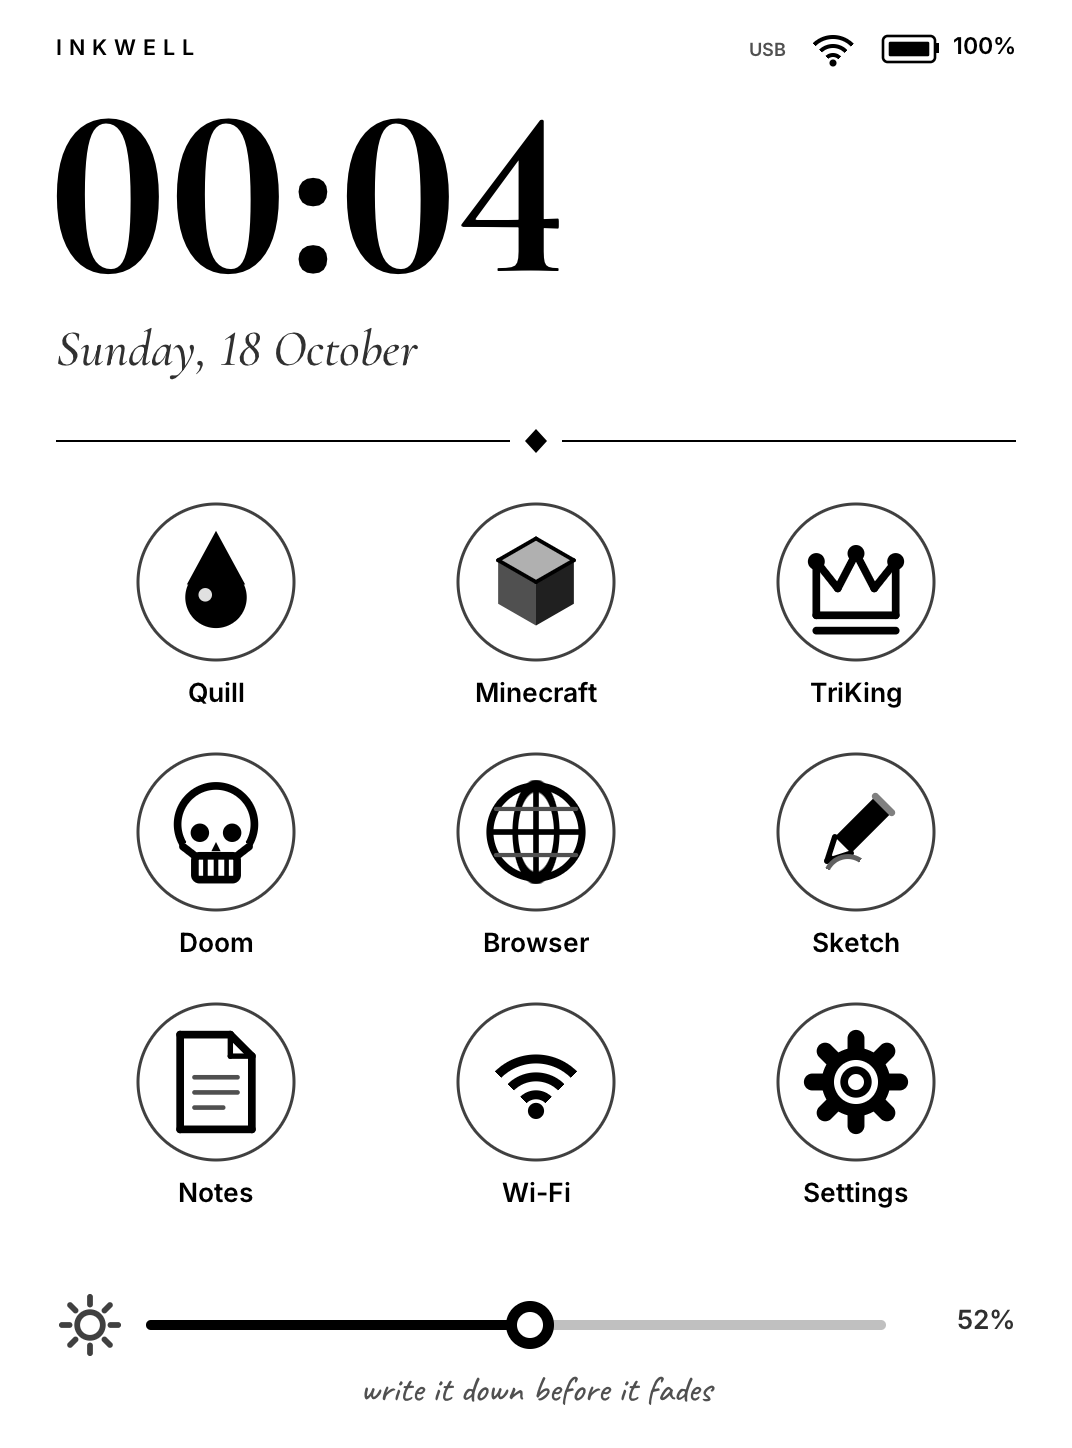
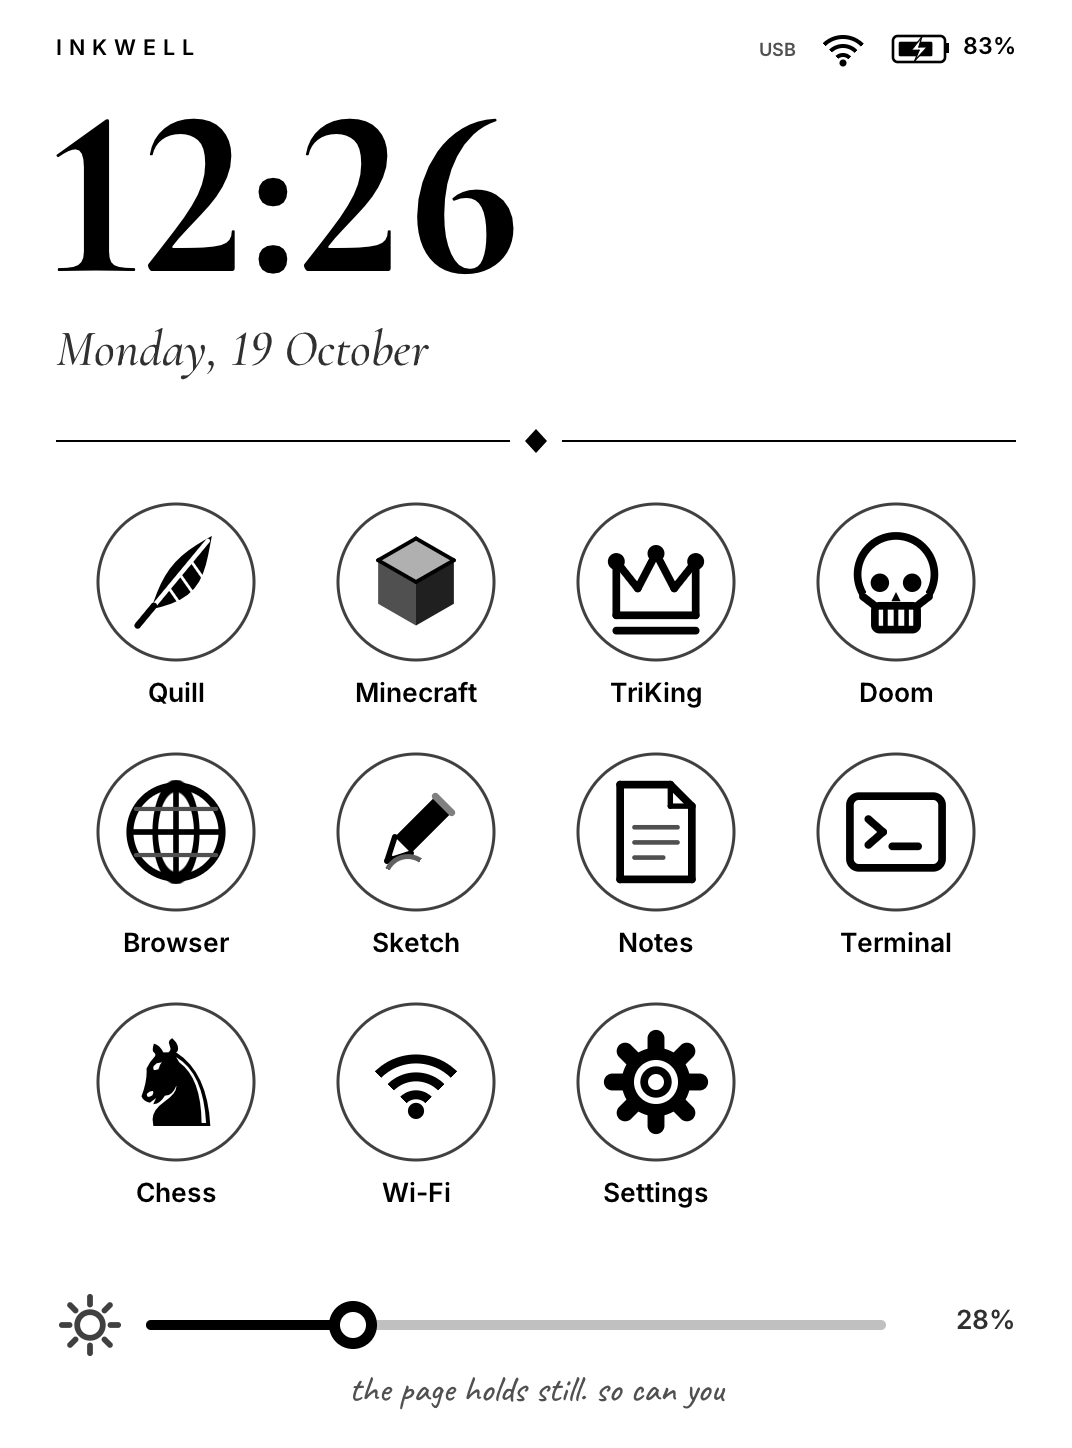
docs: describe Terminal and Chess in the README

diff --git a/README.md b/README.md
@@ -2,7 +2,7 @@
 
 Inkwell is a small Linux system of its own for the jailbroken Kindle Paperwhite 3. Amazon's bootloader and kernel still start the device, and everything after that is replaced: the home screen, the apps, Wi-Fi, USB networking and SSH all come from an Alpine Linux userspace built for the e-ink panel.
 
-It has a chatbot called Quill that runs a language model on the Kindle itself with no internet. It also plays Doom and the first version of Minecraft, and it has a reading web browser, notes, a sketchpad and a falling-block game called TriKing. You install it by copying one folder to the Kindle and tapping one item in the library, and one more tap brings the normal Kindle back.
+It has a chatbot called Quill that runs a language model on the Kindle itself with no internet. It also plays Doom, chess and the first version of Minecraft, and it has a terminal, a reading web browser, notes, a sketchpad and a falling-block game called TriKing. You install it by copying one folder to the Kindle and tapping one item in the library, and one more tap brings the normal Kindle back.
 
 <p align="center"><img src="docs/images/home.png" width="380" alt="The Inkwell home screen with a serif clock, nine app icons and a frontlight slider"></p>
 
@@ -25,12 +25,18 @@ These clips are from a real Kindle Paperwhite 3. Some are sped up, and each capt
 - **Minecraft** is rd-132211, the first version of Minecraft from 2009, through [rdgeneric](https://github.com/pragyaangaur/Can-It-Run-Minecraft). You can walk, dig and place blocks.
 - **TriKing** is a falling-block game where every piece has three cells. You tap the board to rotate, drag to move and flick down to drop.
 - **Browser** fetches a page, keeps the headings, paragraphs and links, and lays them out as pages you turn. It searches with Bing.
+- **Chess** plays against Inkwell's own engine, a small alpha-beta search written for this processor. Easy answers at once, Medium thinks for up to two seconds and Hard for up to six. You can play either colour and take moves back, and the game is saved to the `chess` folder, so you can carry on later.
+- **Terminal** runs a shell on the Kindle with an extra row of keys for Esc, Tab, Ctrl and the arrows. It handles full-screen programs such as `vi` and `top`, and `ssh` connects to the computer on the other end of the USB cable. Hiding the keyboard shows the whole screen.
 - **Notes** saves plain text files to the `notes` folder on the Kindle's drive, so you can read them on a computer.
 - **Sketch** is a drawing pad that saves pictures to the `sketches` folder.
 - **Wi-Fi** scans for networks and joins them with the on-screen keyboard.
 - **Settings** restarts or powers off the Kindle, opens the normal Kindle UI once, and shows the battery, memory and storage.
 
 The home screen also has a clock, the date, the battery and a frontlight slider. The Kindle sleeps after 15 minutes on the home screen or when you press the power button there, and it shows a night sky while it sleeps.
+
+| Chess | Terminal |
+| :---: | :---: |
+| <img src="docs/images/chess.png" width="300" alt="A chess game in the opening, with Inkwell having played Nc6"> | <img src="docs/images/terminal.png" width="300" alt="The terminal running top, with the extra keys above the keyboard"> |
 
 | Quill | TriKing | Sleep screen | Notes | Settings |
 | :---: | :---: | :---: | :---: | :---: |
@@ -46,7 +52,7 @@ You need a **Kindle Paperwhite 3** (the 7th generation, from 2015) that is alrea
 4. Eject the Kindle and unplug it.
 5. Open the Kindle's library and tap **Inkwell: install**.
 
-The Kindle reboots, shows the Inkwell splash for a moment and opens the home screen within about 20 seconds. From then on it starts Inkwell every time it boots.
+The Kindle reboots, shows the Inkwell splash for a moment and opens the home screen within about 20 seconds. Release 1.0.0 has every app above except Chess and Terminal, which are in this repository and will be in the next release. From then on it starts Inkwell every time it boots.
 
 ## Use
 
@@ -57,6 +63,8 @@ Tap an app to open it, and tap the round arrow in the top left corner to go back
 **The smart model.** Quill comes with the quick model (135 million parameters). The release also has `smollm2-360m-q4_0.gguf`, which knows more and writes about 0.7 words per second. Put that file in the `linux/models` folder on the Kindle's drive, and the **quick** button in Quill then switches between the two. The first chat with each model takes a little longer while Quill prepares it.
 
 **The time zone.** Inkwell uses UTC until you tell it otherwise. Open `linux/timezone` on the Kindle's drive and replace `UTC` with your zone name, for example `Europe/London`, `America/New_York` or `Asia/Kolkata`. It takes effect at the next boot.
+
+**SSH to your computer.** On a Mac, turn on Remote Login in System Settings, under General and then Sharing. In the Terminal app, `ssh yourname@192.168.15.201` then connects to the Mac over the USB cable. The address is the one Inkwell hands the computer, and Linux computers work the same way with their SSH server running.
 
 **Your files.** Notes are in `notes`, sketches are in `sketches` and Doom saves are in `doom` on the Kindle's drive. While Inkwell runs, the USB port is a network link, so to reach the drive you open the normal Kindle UI once (below) and plug in the cable.
 
@@ -119,6 +127,7 @@ Quill's model runs in `inkllm`, a small program around llama.cpp that Quill talk
   | DU | 380 ms | TriKing |
   | GC16, GL16 | 660 ms | page changes with grey |
 
+- **A2 and grey.** The panel keeps the top four bits of each pixel, so it stores 16 levels. A2 only moves pixels between black and white and leaves a pixel that starts at a grey level alone. Quill's message box was `0xEC`, which is level 14, so typed letters stayed invisible until typing paused and a slower refresh ran. `0xF0` is level 15, which A2 treats as white, and the terminal draws its text without anti-aliasing for the same reason.
 - **Half floats on the Cortex-A9.** Clang defines `__ARM_FP16_FORMAT_IEEE` on every 32-bit Arm target, so ggml converted each block's fp16 scale through a software routine. The A9 has no half-precision hardware. `build-llm.sh` patches ggml to require real fp16 support (`__ARM_FP & 2`), and that doubled the speed. Afterwards the 135M model makes 1.7 tokens per second and reads prompts at 4.4 tokens per second, and the 360M model makes 0.72 tokens per second. The KV cache is f32 for the same reason.
 - **Touch input.** The kernel drops a coordinate that has not changed, so a finger landing exactly where the last one lifted sends no position. Inkwell counts a new tracking id as movement. Taps also arrive in bursts while the panel refreshes, so input is queued, since keeping only the first tap lost keystrokes.
 - **Boot time.** The home screen appears about 15.9 seconds after the kernel starts. About 14 seconds of that is Amazon's hardware jobs, and loading the display waveforms alone takes about 3 seconds. Inkwell loads its drivers while the splash is showing and starts networking after the home screen, and it switches the CPU to the `ondemand` governor, since Amazon keeps it at full speed until its own home screen loads. Inkwell uses about 40 MB of the 512 MB of memory.
@@ -161,8 +170,8 @@ tools/fetch.sh
 
 ## Credits
 
-Inkwell stands on a lot of other people's work: [Alpine Linux](https://alpinelinux.org), [llama.cpp](https://github.com/ggml-org/llama.cpp), [SmolLM2](https://huggingface.co/HuggingFaceTB/SmolLM2-135M-Instruct) from Hugging Face (Q4_0 files by [bartowski](https://huggingface.co/bartowski)), [doomgeneric](https://github.com/ozkl/doomgeneric), id Software's Doom and its shareware episode, [stb_truetype](https://github.com/nothings/stb), the Inter, Cormorant Garamond, Caveat and JetBrains Mono typefaces, and the Kindle jailbreak community at [kindlemodding.org](https://kindlemodding.org). The jailbreak itself comes from that community, and Inkwell only starts where it ends.
+Inkwell stands on a lot of other people's work: [Alpine Linux](https://alpinelinux.org), [llama.cpp](https://github.com/ggml-org/llama.cpp), [SmolLM2](https://huggingface.co/HuggingFaceTB/SmolLM2-135M-Instruct) from Hugging Face (Q4_0 files by [bartowski](https://huggingface.co/bartowski)), [doomgeneric](https://github.com/ozkl/doomgeneric), id Software's Doom and its shareware episode, [stb_truetype](https://github.com/nothings/stb), the Inter, Cormorant Garamond, Caveat and JetBrains Mono typefaces, the chess symbols from DejaVu Sans, and the Kindle jailbreak community at [kindlemodding.org](https://kindlemodding.org). The jailbreak itself comes from that community, and Inkwell only starts where it ends.
 
 ## Licence
 
-Inkwell's own code is under the MIT licence in `LICENSE`. The Doom port in `src/doom/` is under the GNU GPL version 2, like the Doom source it comes from. The fonts are under the SIL Open Font License, with each licence in `fonts/`. The release image also contains Alpine's packages under their own licences.
+Inkwell's own code is under the MIT licence in `LICENSE`. The Doom port in `src/doom/` is under the GNU GPL version 2, like the Doom source it comes from. The fonts are under the SIL Open Font License, except the DejaVu chess symbols, which are under the Bitstream Vera licence. Each licence is in `fonts/`. The release image also contains Alpine's packages under their own licences.
